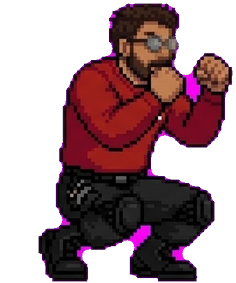
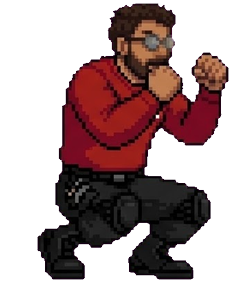
Caduta senza frame eco (3 frame diretti), chroma-key esteso al magenta scuro: KO e tutti gli sprite puliti dal residuo magenta, v=11

diff --git a/index.html b/index.html
@@ -96,7 +96,7 @@ Rr(432,200,44,38,'#14141c');Rr(434,202,40,34,'#c8482a');Rr(444,214,20,10,'#fff')
 /* ---------- fighter ---------- */
 function R(x,y,w,h,col){c.fillStyle='#07070c';c.fillRect(x-1,y-1,w+2,h+2);c.fillStyle=col;c.fillRect(x,y,w,h)}
 /* sprite BEPPE (da Google Drive): 1 riga per animazione in assets/characters/beppe/, corpo in piedi normalizzato a 400px, piedi sul bordo inferiore, rivolti a destra */
-const SPR={},SPRB=400,VER=10,SPRN={idle:4,walk:4,punch:5,kick:5,heavy:5,jump:3,block:1,crouch:1,special:5,fall:5,ko:1};
+const SPR={},SPRB=400,VER=11,SPRN={idle:4,walk:4,punch:5,kick:5,heavy:5,jump:3,block:1,crouch:1,special:5,fall:3,ko:1};
 for(const a of Object.keys(SPRN)){const im=new Image();im.onload=()=>{SPR[a]=im};im.src='assets/characters/beppe/beppe-'+a+'.png?v='+VER}
 const PAL=new Image();PAL.src='assets/characters/beppe/pallet.png?v='+VER;
 const BGI=new Image();BGI.src='assets/backgrounds/arena-supermercato.png?v='+VER;
@@ -110,7 +110,7 @@ else if(s=='jump'){name='jump';fi=f.vy<-3?0:f.vy<3?1:2}
 else if(s=='block')name='block';
 else if(s=='crouch')name='crouch';
 else if(s=='atk'){name=f.atk=='s'?'special':f.atk=='p'?'punch':f.atk=='k'?'kick':'heavy';if(!SPR[name])name='idle';else{const m=MV[f.atk];fi=Math.min(t<m.su-2?0:t<m.su?1:t<m.su+m.ac?2:t<m.su+m.ac+2?3:4,SPRN[name]-1)}}
-else if(s=='ko'){if(t<35&&SPR.fall){name='fall';fi=Math.min(t/7|0,4)}else if(SPR.ko){name='ko';fi=0}}
+else if(s=='ko'){if(t<35&&SPR.fall){name='fall';fi=Math.min(t/12|0,2)}else if(SPR.ko){name='ko';fi=0}}
 if(!SPR[name])name='idle';
 const src=SPR[name],fw=src.width/SPRN[name],fh=src.height,k=SPRK;
 c.save();c.imageSmoothingEnabled=false;c.translate(x|0,y|0);c.scale(f.face*sc,sc);
